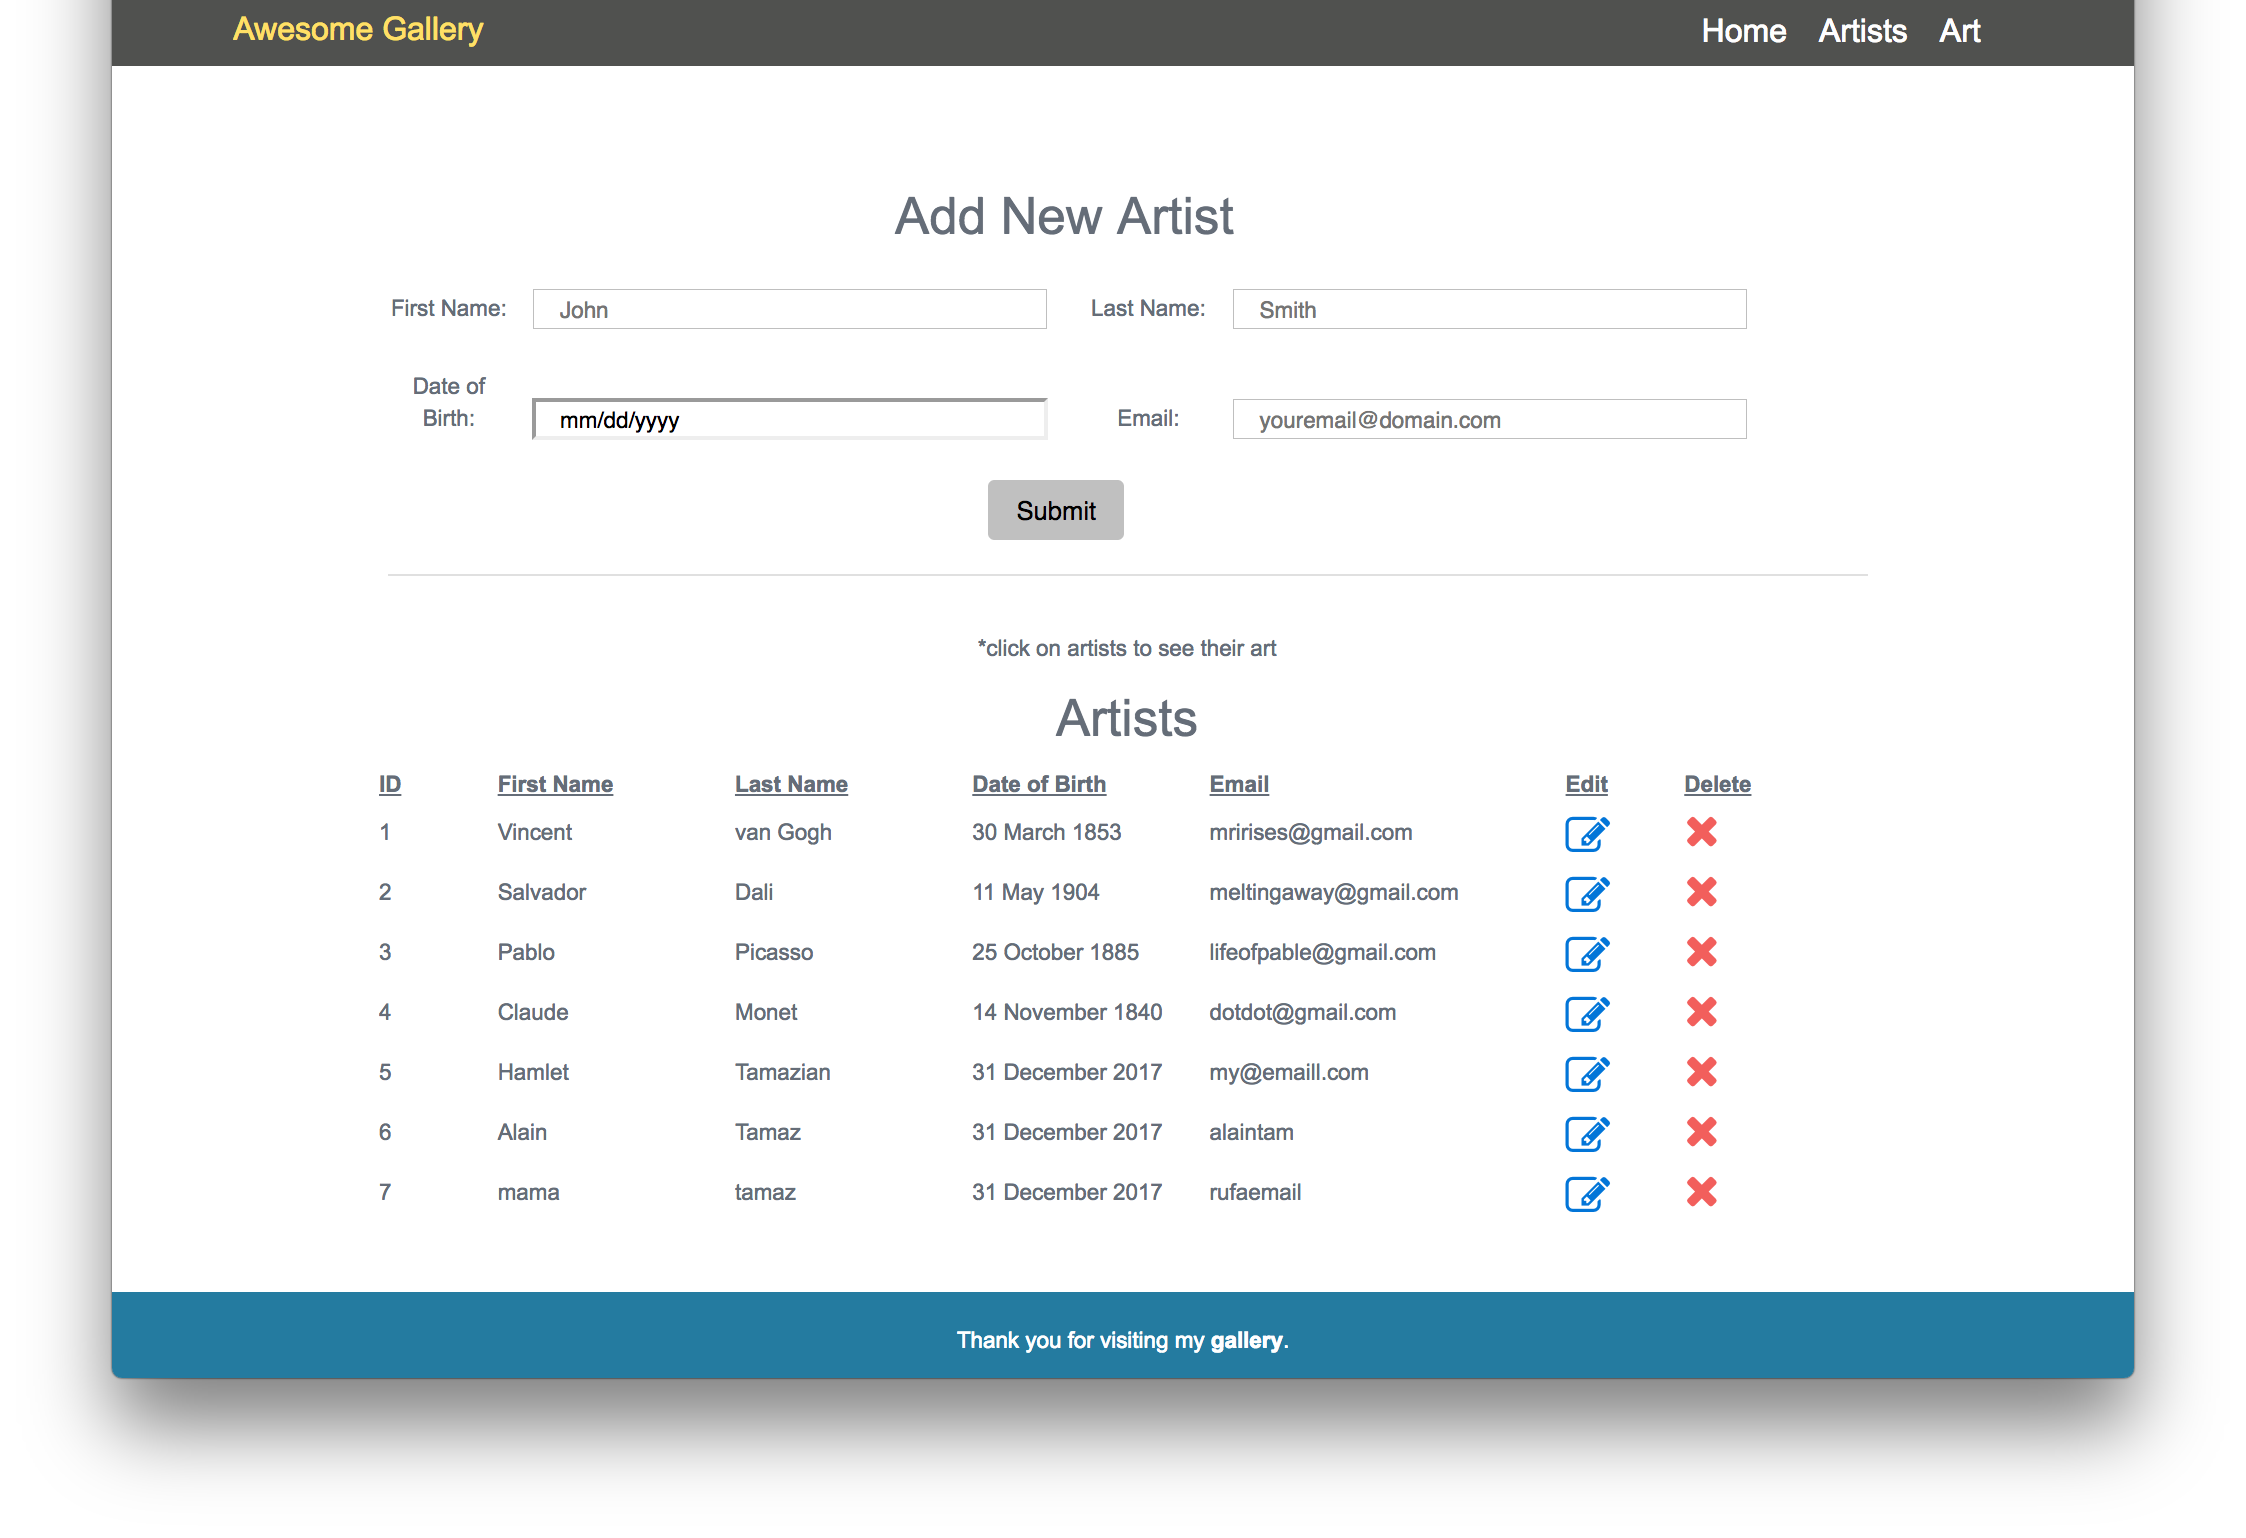
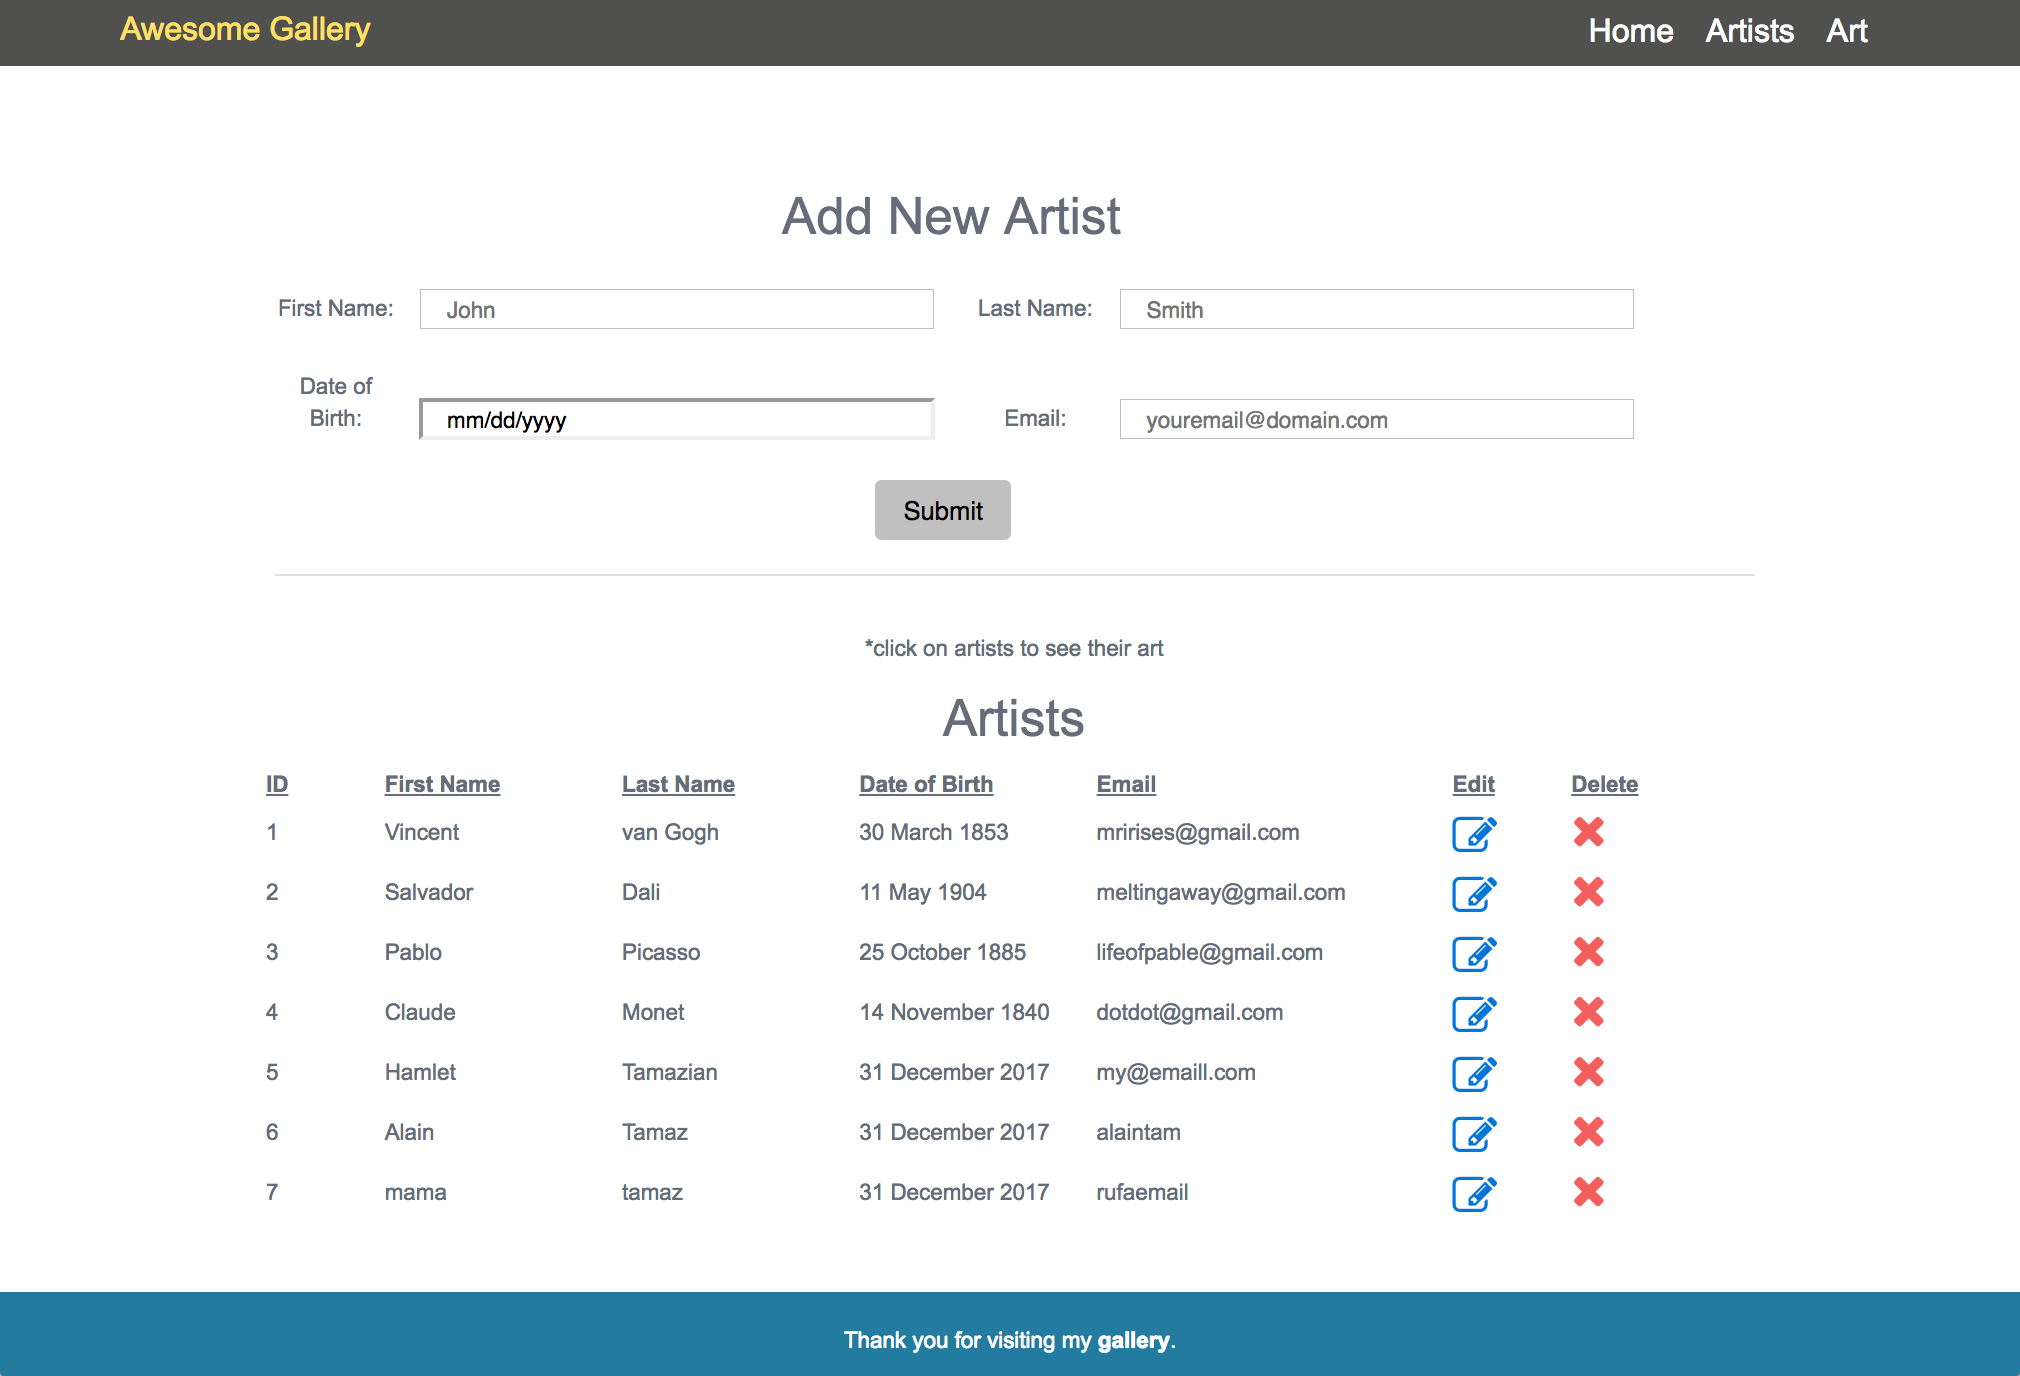
image modification and background shadows

diff --git a/public/c/output.css b/public/c/output.css
@@ -124,7 +124,8 @@ div#contact li {
   box-sizing: border-box;
   margin: 0 3vw;
   width: 40%;
-  max-width: 400px; }
+  max-width: 400px;
+  box-shadow: 0 0 20px 3px #888888; }
 
 #conv1 {
   display: block;
@@ -228,7 +229,8 @@ div#area iframe {
 footer {
   color: white;
   text-align: center;
-  margin-top: 20px; }
+  margin-top: 20px;
+  margin-bottom: 10px; }
 
 @media (min-width: 1100px) {
   div#area div:nth-child(1) {

diff --git a/public/c/style.scss b/public/c/style.scss
@@ -141,6 +141,7 @@ div#contact li {
 	margin: 0 3vw;
 	width: 40%;
 	max-width: 400px;
+	box-shadow: 0 0 20px 3px #888888;
 }
 #conv1 {
 	@extend #cover;
@@ -249,6 +250,7 @@ footer {
 	color: white;
   text-align: center;
   margin-top: 20px;
+  margin-bottom: 10px;
 }
 
 @media (min-width: 1100px) {
